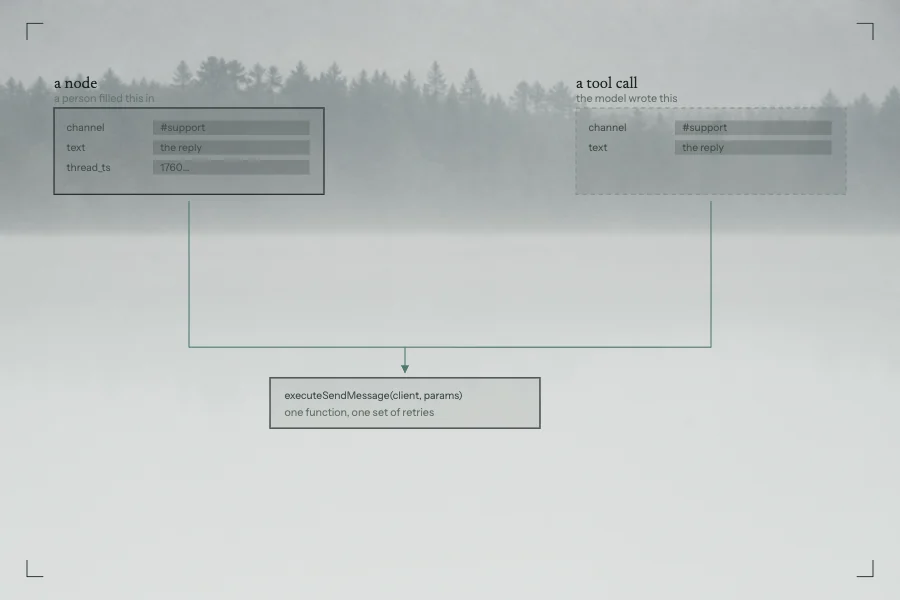
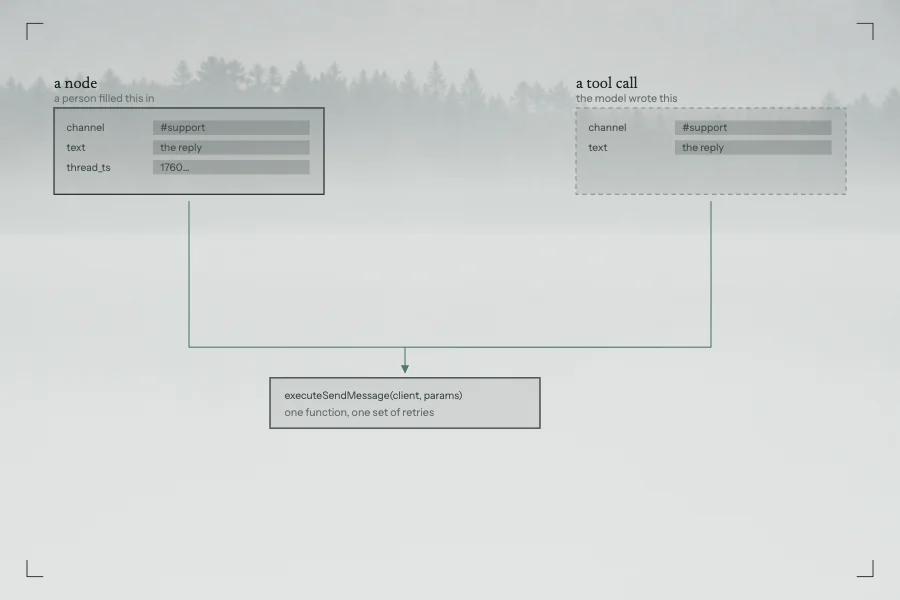
Lighten the integrations cover and date the two posts for the weekend

Changed region(s): [[0.0, 0.09, 1.0, 0.42]]

diff --git a/scripts/covers/one-integration-two-callers.html b/scripts/covers/one-integration-two-callers.html
@@ -34,7 +34,7 @@
                 width: 100%;
                 height: 100%;
                 object-fit: cover;
-                object-position: center 46%;
+                object-position: center var(--crop, 46%);
                 filter: saturate(0.68) contrast(1);
             }
             .wash {
@@ -42,10 +42,10 @@
                 inset: 0;
                 background: linear-gradient(
                     to bottom,
-                    rgba(233, 236, 234, 0.06) 0%,
-                    rgba(233, 236, 234, 0.4) 28%,
-                    rgba(233, 236, 234, 0.74) 56%,
-                    rgba(233, 236, 234, 0.84) 100%
+                    rgba(233, 236, 234, 0.32) 0%,
+                    rgba(233, 236, 234, 0.54) 16%,
+                    rgba(233, 236, 234, 0.82) 32%,
+                    rgba(233, 236, 234, 0.9) 100%
                 );
             }
             svg {
@@ -120,6 +120,8 @@
             sheet.style.setProperty("--w", `${PW}px`);
             sheet.style.setProperty("--h", `${PH}px`);
             const wide = PW / PH > 2;
+            // a wide plate crops hard, so it is aimed at the treeline rather than the dark water under it
+            sheet.style.setProperty("--crop", wide ? "8%" : "32%");
             const VB = wide ? [1000, 384] : [1000, 667];
             S.setAttribute("viewBox", `0 0 ${VB[0]} ${VB[1]}`);
 

diff --git a/client/src/content/posts/one-integration-two-callers.md b/client/src/content/posts/one-integration-two-callers.md
@@ -1,5 +1,5 @@
 title: Sharing integrations between workflows and agents
-date: 2026-10-16
+date: 2026-10-17
 about: FlowMaestro
 cover: /img/posts/one-integration-two-callers-wide.webp
 card: /img/posts/one-integration-two-callers-card.webp

diff --git a/client/src/content/posts/one-screen-writes-offline.md b/client/src/content/posts/one-screen-writes-offline.md
@@ -1,5 +1,5 @@
 title: Offline reads and a queued working-week edit
-date: 2026-10-16
+date: 2026-10-18
 about: Clientbridge
 cover: /img/posts/one-screen-writes-offline-wide.webp
 card: /img/posts/one-screen-writes-offline-card.webp
